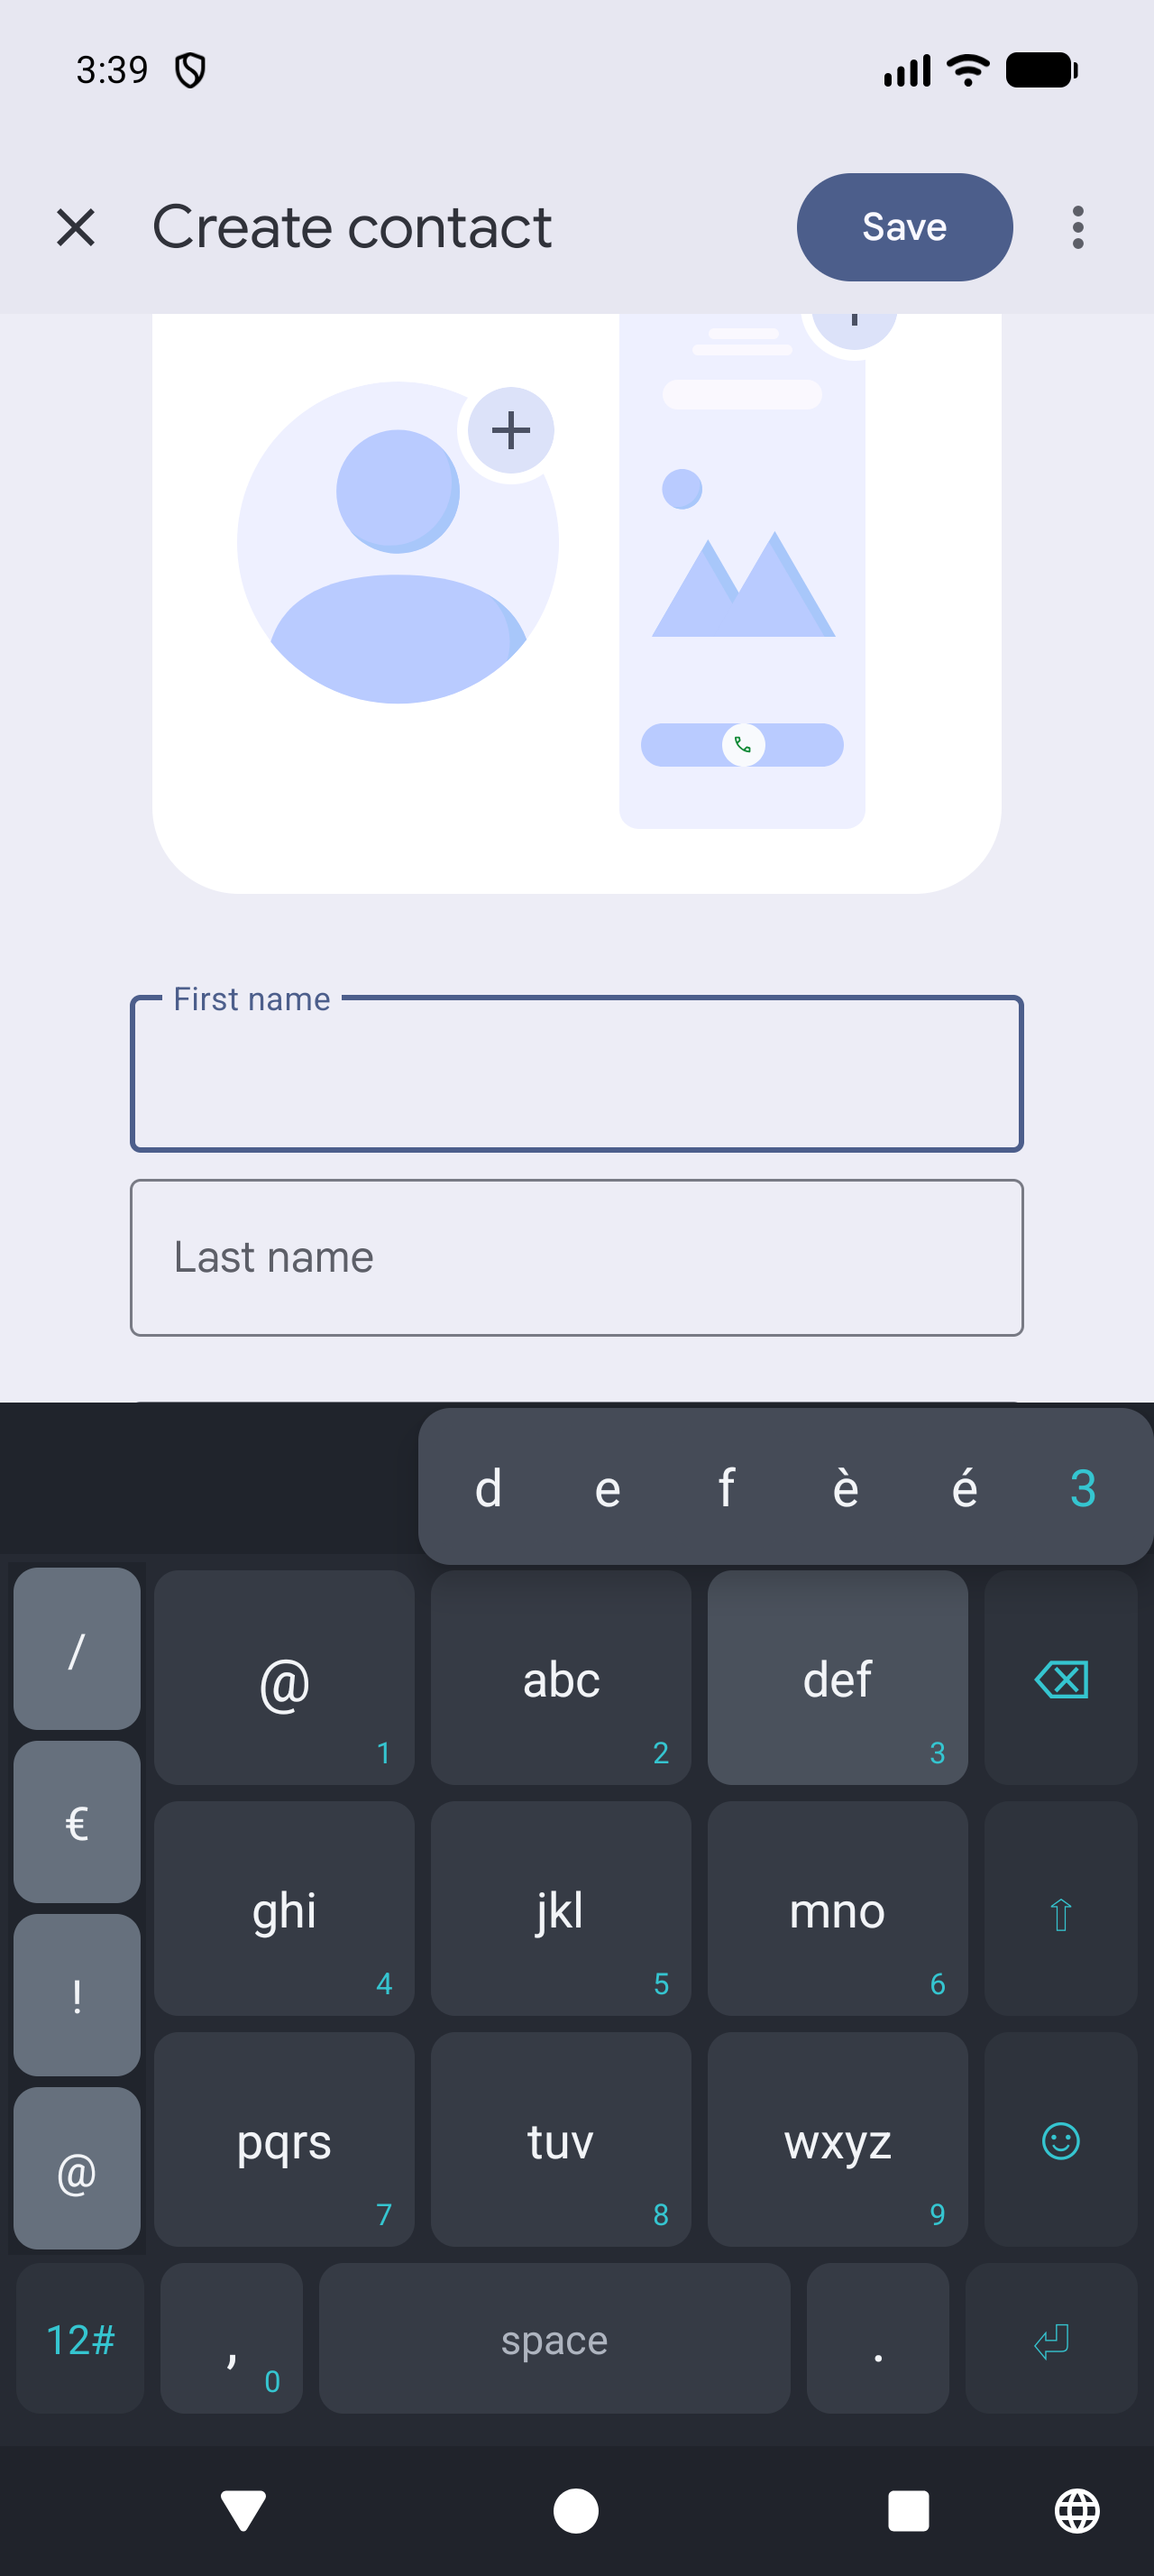
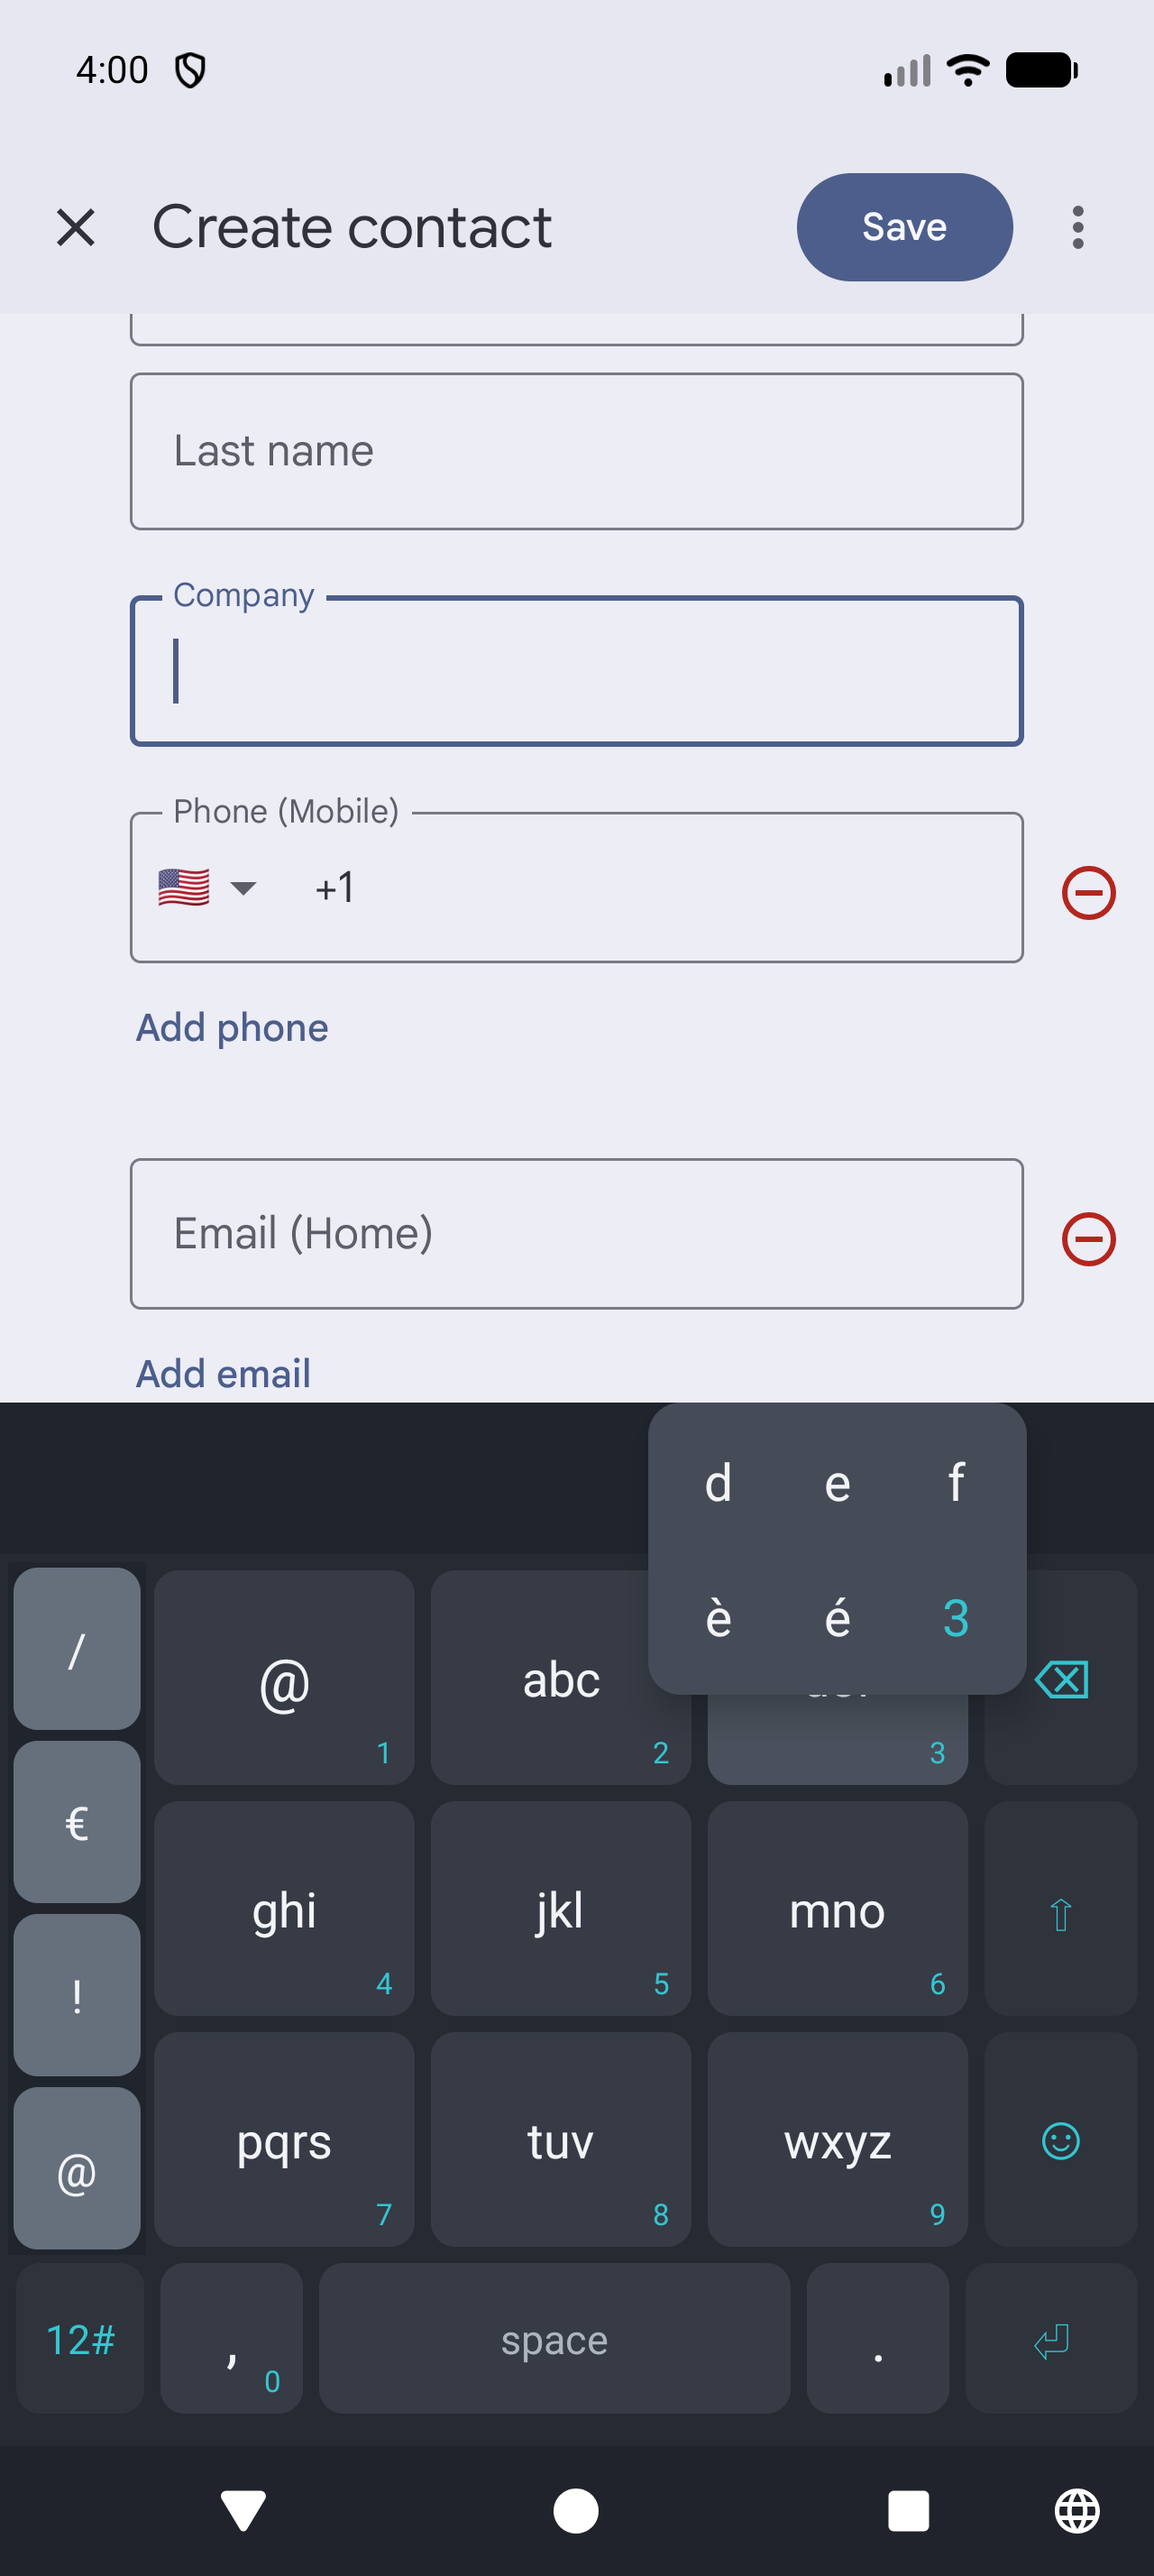
Step 1.12b: popup su due righe, e la selezione prende la cella piu' vicina
Segnalazione dell'utente sugli screenshot: i popup lunghi erano troppo larghi
(quello del tasto 1, con 8 celle, copriva l'84% della larghezza schermo). Ora
oltre 5 celle il pannello va a capo, con lo spezzone bilanciato (6 -> 3+3, non
5+1) e le righe centrate. Cinque e non quattro perche' tiene su una riga sola i
popup piu' frequenti (a b c a' 2, p q r s 7), dove il gesto e' una sola
spazzata orizzontale.

La richiesta ha scoperto un bug latente: indexAt cercava la prima cella che
CONTIENE il dito, allargata di 28dp in verticale. Con due righe quella
tolleranza copre la riga successiva, quindi due celle rispondono allo stesso
punto e vinceva sempre quella visitata per prima - la seconda riga sarebbe
stata inselezionabile. Ora si prende la cella piu' vicina, che fra due righe
non e' mai ambiguo, con tolleranza asimmetrica: larga di lato per lo
scorrimento, stretta in basso perche' il dito poggia sul tasto sottostante e un
rilascio senza spostarsi deve voler dire "lascia perdere".

Verificato su emulatore selezionando "e'" sulla seconda riga, cioe' proprio il
caso che il vecchio hit-testing sbagliava.

diff --git a/app/src/main/java/com/daux/t9keyboard/ui/KeyPopupView.kt b/app/src/main/java/com/daux/t9keyboard/ui/KeyPopupView.kt
@@ -8,6 +8,7 @@ import android.widget.LinearLayout
 import android.widget.TextView
 import com.daux.t9keyboard.model.KeySpec
 import com.daux.t9keyboard.model.LongPressKeys
+import kotlin.math.hypot
 
 /**
  * The panel shown above a key while it is held down.
@@ -42,7 +43,12 @@ class KeyPopupView(context: Context) : LinearLayout(context) {
         cells.clear()
         highlighted = -1
         for (row in LongPressKeys.rows(specs)) {
-            val rowView = LinearLayout(context).apply { orientation = HORIZONTAL }
+            val rowView = LinearLayout(context).apply {
+                orientation = HORIZONTAL
+                // Rows can differ in width (".com" is wider than "@"): centring keeps a
+                // wrapped panel looking like a grid instead of a ragged edge.
+                gravity = Gravity.CENTER_HORIZONTAL
+            }
             for (spec in row) {
                 val cell = buildCell(spec)
                 cells += cell to spec
@@ -80,19 +86,46 @@ class KeyPopupView(context: Context) : LinearLayout(context) {
         highlighted = index
     }
 
+    /**
+     * The cell **nearest** the finger, or -1 if it is too far to count as a choice.
+     *
+     * Nearest rather than "the first one containing the point", because the panel wraps
+     * onto two rows once it grows past [LongPressKeys.MAX_PER_ROW]: any tolerance added
+     * around a cell would then overlap the row above or below, and a containment test
+     * would always answer with whichever row it happened to visit first. Distance has no
+     * such ambiguity — a point between two rows belongs to the closer one.
+     *
+     * The tolerance is deliberately asymmetric. Sideways it is generous, so sliding past
+     * the end of a row still lands on its last cell. Downwards it is tight: the finger
+     * that opened the panel is resting on the key just below it, and a release without
+     * moving must mean "never mind", not a character chosen at random.
+     */
     private fun indexAt(rawX: Float, rawY: Float): Int {
         val location = IntArray(2)
+        var nearest = -1
+        var nearestDistance = Float.MAX_VALUE
+
         for ((index, entry) in cells.withIndex()) {
             val cell = entry.first
             cell.getLocationOnScreen(location)
-            // Vertically forgiving: the finger sits below the popup while sliding, and
-            // demanding it be inside the row would make selection feel finicky.
-            val insideX = rawX >= location[0] && rawX <= location[0] + cell.width
-            val insideY = rawY >= location[1] - dp(TOUCH_SLOP_DP) &&
-                rawY <= location[1] + cell.height + dp(TOUCH_SLOP_DP)
-            if (insideX && insideY) return index
+            val dx = gap(rawX, location[0].toFloat(), (location[0] + cell.width).toFloat())
+            val dy = gap(rawY, location[1].toFloat(), (location[1] + cell.height).toFloat())
+            if (dx > dp(REACH_X_DP) || dy > dp(REACH_Y_DP)) continue
+
+            val distance = hypot(dx, dy)
+            if (distance < nearestDistance) {
+                nearestDistance = distance
+                nearest = index
+            }
         }
-        return -1
+        return nearest
+    }
+
+    /** How far [value] falls outside [min]..[max]; zero when inside. */
+    private fun gap(value: Float, min: Float, max: Float): Float = when {
+        value < min -> min - value
+        value > max -> value - max
+        else -> 0f
     }
 
     fun clearHighlight() = setHighlighted(-1)
@@ -104,7 +137,10 @@ class KeyPopupView(context: Context) : LinearLayout(context) {
         const val CELL_MIN_WIDTH_DP = 40
         const val CELL_HEIGHT_DP = 46
 
-        /** Extra vertical reach, since the finger is below the popup while sliding. */
-        const val TOUCH_SLOP_DP = 28
+        /** Sideways tolerance: sliding past the end of a row still picks its last cell. */
+        const val REACH_X_DP = 32
+
+        /** Vertical tolerance, kept under the distance to the key below (see indexAt). */
+        const val REACH_Y_DP = 18
     }
 }

diff --git a/app/src/test/java/com/daux/t9keyboard/model/LongPressKeysTest.kt b/app/src/test/java/com/daux/t9keyboard/model/LongPressKeysTest.kt
@@ -128,4 +128,35 @@ class LongPressKeysTest {
         assertEquals(cells, rows.flatten())
         assertNotNull(LongPressKeys.rows(emptyList()))
     }
+
+    /** A wrapped panel should read as a grid, not as a full row plus a stray cell. */
+    @Test
+    fun `wrapping splits evenly`() {
+        fun sizes(count: Int) =
+            LongPressKeys.rows((1..count).map { KeySpec("$it", null, false, KeyAction.Insert("$it")) })
+                .map { it.size }
+
+        assertEquals(listOf(3, 3), sizes(6))
+        assertEquals(listOf(4, 4), sizes(8))
+        assertEquals(listOf(4, 3), sizes(7))
+        // Up to the maximum nothing wraps: one sweep of the thumb is the whole gesture.
+        assertEquals(listOf(LongPressKeys.MAX_PER_ROW), sizes(LongPressKeys.MAX_PER_ROW))
+    }
+
+    /** No popup should be wide enough to stretch across the screen. */
+    @Test
+    fun `no popup row is wider than the maximum`() {
+        val popups: List<List<KeySpec>> = (1..9).map { popupFor(it) } + listOf(
+            popupFor(1, emailField = true),
+            LongPressKeys.forKey(KeyAction.Insert(",")),
+            LongPressKeys.forKey(KeyAction.Insert("."))
+        )
+
+        for (cells in popups) {
+            assertTrue(
+                cells.joinToString(" ") { it.mainLabel },
+                LongPressKeys.rows(cells).all { it.size <= LongPressKeys.MAX_PER_ROW }
+            )
+        }
+    }
 }

diff --git a/app/src/main/java/com/daux/t9keyboard/model/LongPressKeys.kt b/app/src/main/java/com/daux/t9keyboard/model/LongPressKeys.kt
@@ -18,8 +18,16 @@ package com.daux.t9keyboard.model
  */
 object LongPressKeys {
 
-    /** Cells are laid out in rows of at most this many; longer lists wrap. */
-    const val MAX_PER_ROW = 8
+    /**
+     * Cells per row before wrapping. Beyond this a panel gets wider than the thumb can
+     * comfortably sweep — eight across covered most of the screen — so long lists become
+     * a small grid instead.
+     *
+     * Five, not four: it keeps the commonest popups (`a b c à 2`, `p q r s 7`) on one
+     * row, where a horizontal sweep is all the gesture needs, and splits only the long
+     * ones. [rows] balances the split, so six cells give 3+3 rather than 5+1.
+     */
+    const val MAX_PER_ROW = 5
 
     private fun letter(digit: Int, c: Char) =
         KeySpec(c.toString(), null, isFunction = false, KeyAction.ForceLetter(digit, c))

diff --git a/DEVELOPMENT.md b/DEVELOPMENT.md
@@ -28,7 +28,7 @@ Un file disallineato è un bug, e va segnalato/riparato appena lo si nota.
 ## 🔖 STATO CORRENTE (aggiornare sempre qui)
 
 - **Fase in corso:** Fase 1 — MVP **completa**, con gli step aggiuntivi nati dalla prova reale.
-- **Ultimo step completato:** Step 1.12 — **popup long-press** sui tasti (accentate, simboli, e **le cifre**, che prima erano digitabili solo da `12#`).
+- **Ultimo step completato:** Step 1.12b — **popup long-press** sui tasti (accentate, simboli, e **le cifre**, che prima erano digitabili solo da `12#`), con i pannelli lunghi mandati a capo su due righe.
 - **Prossimo step:** **Fase 2 — bilingue IT+EN**. `MergingDictionaryEngine` è già pronto dallo Step 1.5: serve `EnglishDictionaryEngine` + corpus inglese.
 - **Dopo:** **Fase 3** (impostazioni/ergonomia, dove rientrano la **QWERTY come layout alternativo** e lo **scorrimento del cursore trascinando sulla barra spazio**, entrambi richiesti dall'utente). Il test reale sullo smartphone continua in parallelo: `bash tools/dev.sh apk` → `app/build/outputs/apk/debug/app-debug.apk`.
 - **Come riprendere:** leggi questa sezione + i task non spuntati qui sotto. Build/test rapido da terminale: vedi blocco "Build & test da riga di comando" più sotto.
@@ -378,6 +378,33 @@ esistente.
 
 <!-- Formato: ### AAAA-MM-GG — titolo step -->
 <!-- Cosa fatto, file toccati, note/decisioni, come verificare. -->
+
+### 2026-07-29 — Step 1.12b: popup su due righe (feedback dagli screenshot)
+**Fatto:** (segnalazione dell'utente sugli screenshot dello Step 1.12) i popup lunghi
+erano troppo larghi — quello del `1` con 8 celle copriva l'**84% della larghezza schermo**.
+Ora oltre **5 celle** il pannello va a capo: `LongPressKeys.MAX_PER_ROW` 8 → 5, con
+`rows()` che bilancia lo spezzone (6 celle → 3+3, non 5+1). Cinque e non quattro perché
+tiene su una riga sola i popup più frequenti (`a b c à 2`, `p q r s 7`), dove il gesto è
+una singola spazzata orizzontale, e spezza solo quelli lunghi. Le righe sono **centrate**,
+così un pannello con celle di larghezza diversa (`.com` accanto a `@`) resta una griglia.
+
+**Il bug che la richiesta ha scoperto.** `KeyPopupView.indexAt` cercava la prima cella che
+*contiene* il dito, allargata di 28dp in verticale perché il dito sta sotto al pannello
+mentre scorre. Con due righe quella tolleranza copre la riga successiva: due celle
+rispondono allo stesso punto e vinceva sempre quella visitata per prima, cioè la riga in
+alto — **la seconda riga sarebbe stata inselezionabile**. Ora si prende la cella **più
+vicina**: un punto fra due righe appartiene alla più prossima, senza ambiguità. La
+tolleranza è diventata asimmetrica (32dp di lato, 18dp in verticale): larga per lo
+scorrimento oltre il fondo della riga, stretta in basso perché il dito che ha aperto il
+pannello poggia sul tasto sottostante, e un rilascio senza spostarsi deve voler dire
+"lascia perdere", non un carattere a caso.
+
+**File:** `model/LongPressKeys.kt`, `ui/KeyPopupView.kt`; test `LongPressKeysTest`
+(+2 casi: lo spezzone è bilanciato, e nessun popup supera il massimo per riga).
+**Verificato su emulatore:** `1` → due righe da 4 (dall'84% al ~43% della larghezza),
+`3` → `d e f` / `è é 3`; **selezionata `è` sulla seconda riga**, che è esattamente il caso
+che il vecchio hit-testing sbagliava → `docs/screenshots/step-1.12b-seconda-riga.png`,
+`step-1.12b-seconda-riga-scelta.png`.
 
 ### 2026-07-29 — Step 1.12: popup long-press (accentate, simboli e **cifre**)
 **Fatto:** tenendo premuto un tasto si apre un pannello di alternative; si scorre il dito e

diff --git a/docs/FUNCTIONAL.md b/docs/FUNCTIONAL.md
@@ -10,7 +10,7 @@
 > feature che documenta, insieme a `DEVELOPMENT.md`. Documentazione disallineata =
 > step non finito.
 
-**Allineato a:** Step 1.12 (Fase 1 completa).
+**Allineato a:** Step 1.12b (Fase 1 completa).
 
 ## Indice
 - [Panoramica architettura](#panoramica-architettura)
@@ -454,6 +454,17 @@ posizione assoluta.
   tasto che lo ha aperto, che gli inoltra le coordinate finché non si solleva. È ciò che rende
   il gesto uno solo, ed è il motivo per cui può essere una normale vista figlia invece di un
   `PopupWindow`: nessun token di finestra, niente che possa sopravvivere alla tastiera.
+
+  **Oltre 5 celle va a capo** (`LongPressKeys.MAX_PER_ROW`), su righe bilanciate e centrate:
+  otto celle in fila coprivano quasi tutto lo schermo. Cinque è la soglia perché i popup più
+  frequenti (`a b c à 2`, `p q r s 7`) restano su una riga, dove il gesto è una sola spazzata.
+
+  La cella scelta è la **più vicina** al dito, non la prima che lo contiene: con due righe
+  qualsiasi tolleranza attorno a una cella invaderebbe la riga accanto, e un test di
+  contenimento risponderebbe sempre con la riga visitata per prima. La tolleranza è
+  asimmetrica — larga di lato (scorrere oltre il fondo di una riga ne prende comunque
+  l'ultima cella), stretta in basso, perché il dito che ha aperto il pannello poggia sul
+  tasto sottostante e un rilascio senza spostarsi deve significare "lascia perdere".
 - **`KeyViewFactory.PopupHost`** — il gesto. Un tasto senza alternative è lasciato del tutto
   in pace: il listener declina al `DOWN` e il click normale funziona come prima. Quando invece
   prende il controllo, un rilascio senza pannello aperto chiama comunque `performClick()`.
